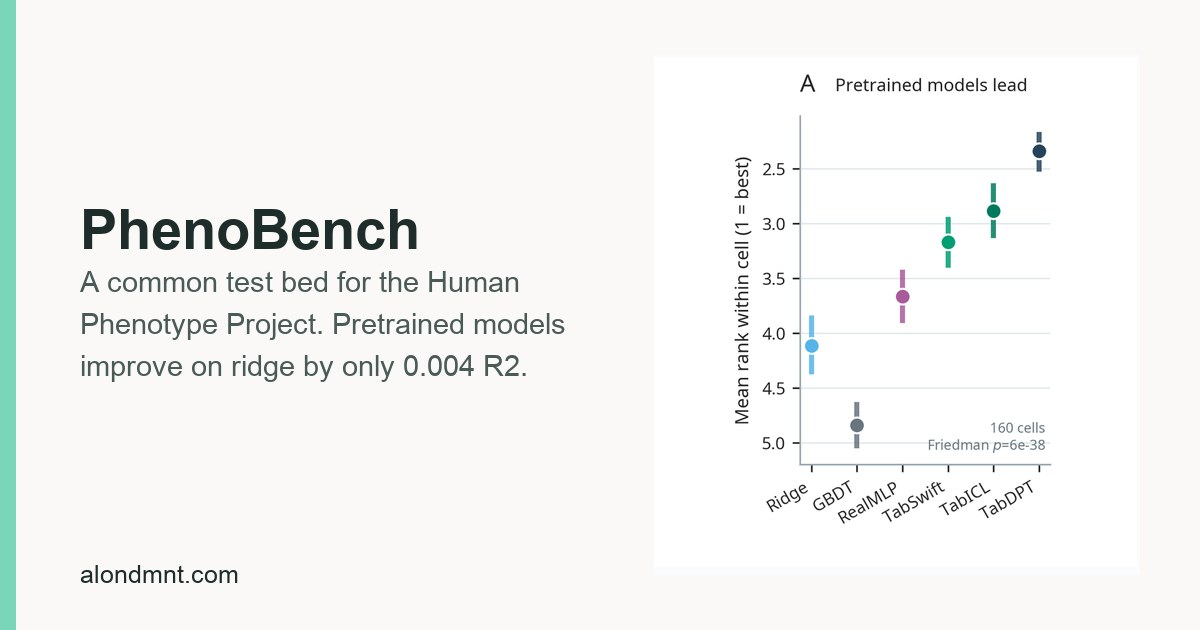
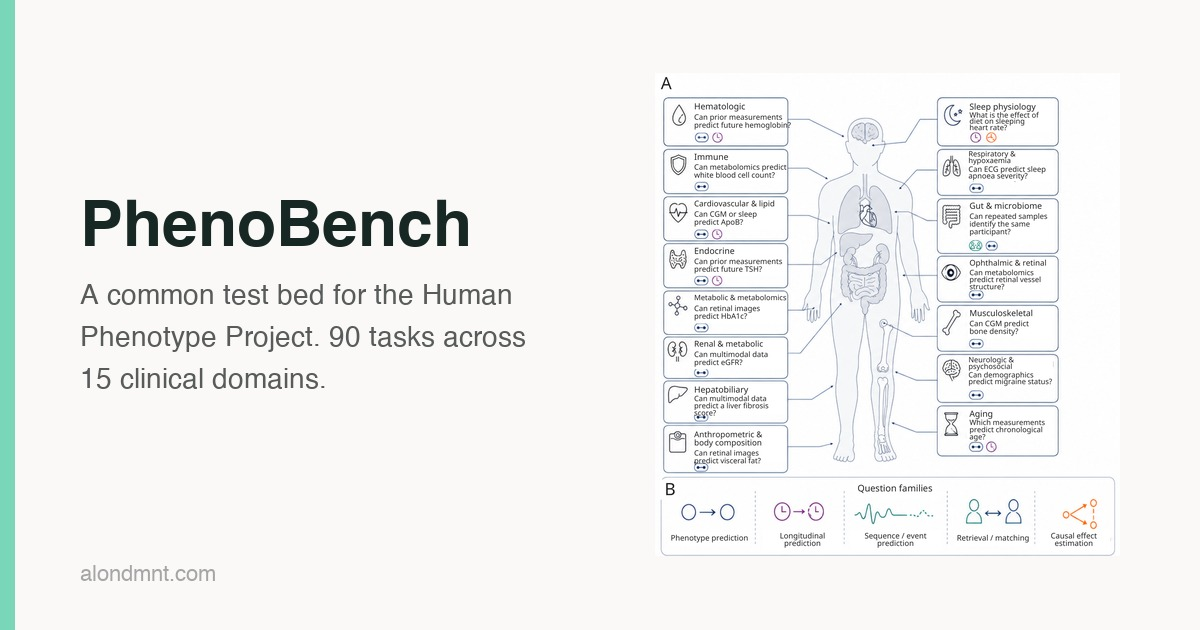
Rebuild: PhenoBench arXiv, domains figure, verified LLM results, new og card

diff --git a/phenobench/index.html b/phenobench/index.html
@@ -57,7 +57,7 @@ What it is PhenoBench turns the Human Phenotype Project into a common test bed f
 	<meta itemprop="name" content="PhenoBench">
 	<meta itemprop="description" content="A lot of analyses have been run on the Human Phenotype Project, and very few of them can be set beside one another. Each picks its own population, its own training and test participants, and its own baseline, so a result that looks stronger than another may only be answering an easier question. The cohort kept producing evidence that did not accumulate.
 What it is PhenoBench turns the Human Phenotype Project into a common test bed for any model, from classical baselines to large language models. It came out of my team’s evaluation workstream, and it is public so that other groups can put their own models through it. Gal Sapir led the project and first-authored the paper; I set its direction and worked hands-on inside it.">
-	<meta itemprop="wordCount" content="730">
+	<meta itemprop="wordCount" content="834">
 	<meta itemprop="image" content="https://alondmnt.com/og/phenobench.jpg">
 
 
@@ -79,8 +79,15 @@ What it is PhenoBench turns the Human Phenotype Project into a common test bed f
 <h4 id="what-it-is">What it is</h4>
 <p>PhenoBench turns the Human Phenotype Project into a common test bed for any model, from classical baselines to large language models. It came out of my team&rsquo;s evaluation workstream, and it is public so that other groups can put their own models through it. <a href="https://galsapir.com">Gal Sapir</a> led the project and first-authored the paper; I set its direction and worked hands-on inside it.</p>
 <p>90 tasks across 15 clinical domains and 26 input modalities, over horizons from seconds to six years. Each question fixes its target, the eligible population, the timing, and the information a model may use, and its evaluation contract fixes the metric, the baseline, and how far the result may be read. We split participants into training, validation and test sets once, for the whole cohort rather than per study, so no analysis can pick a split that suits it. A new model can then be evaluated without redefining the question, so results from different groups and different years can be read against each other.</p>
+<figure><img src="/images/phenobench-domains.jpg"
+			alt="One example question from each of the 15 clinical domains, and the five families the tasks fall into." width="70%"><figcaption>
+			<p>One example question from each of the 15 clinical domains, and the five families the tasks fall into.</p>
+		</figcaption>
+</figure>
+
 <p>It also informs how we train and evaluate models internally, including the multimodal foundation models running alongside it. The plan is for every model we build to be measured on it, so that an improvement is a gain against a declared baseline rather than against whatever the previous project happened to use.</p>
 <h4 id="what-it-showed">What it showed</h4>
+<p>What a measurement is worth turns out to depend on the question and on how the measurement is represented. Against matched baselines, held-out performance came out positive for some pairings, near zero for others, and negative for others again.</p>
 <p>We ran three pretrained tabular foundation models against ridge regression, gradient-boosted trees and a tuned neural baseline, over 160 matched comparisons spanning 52 tasks.</p>
 <p>The pretrained models ranked highest overall. In 121 of 160 cells they came out ahead of the average of ridge and the neural baseline, and their improvement over ridge had a median of only 0.004 R2, with a 95% confidence interval of 0.002 to 0.006.</p>
 <figure><img src="/images/phenobench-tabular.jpg"
@@ -90,6 +97,7 @@ What it is PhenoBench turns the Human Phenotype Project into a common test bed f
 </figure>
 
 <p>Frozen zero-shot Chronos-2 embeddings underperformed features engineered from the same signal, in 25 of 31 glucose comparisons and 30 of 32 sleep comparisons. The caveat travels with that result: both routes were read by the same linear ridge head, so it mixes representation quality with the sample efficiency of fitting ridge to embeddings of 770 to 3,076 dimensions. It does not test whether a tabular foundation model could use those embeddings differently.</p>
+<p>The 14 language models we ran had no cohort-specific fitting. They made informative predictions on some tasks, and on phenotype recovery they beat a ridge probe fitted on the same fields in 9 of 304 model-task cells. Cost did not determine performance.</p>
 <h4 id="what-the-contracts-catch">What the contracts catch</h4>
 <p>Every language model we tested predicted retinal artery width on a micrometre-like scale. The target is in AutoMorph pixels, and the answers stayed off-scale even after the Task Card&rsquo;s reference values were supplied, under both versions of the card.</p>
 <p>It shows up because each question states what is being predicted, in which units, and against which baseline.</p>
@@ -97,11 +105,11 @@ What it is PhenoBench turns the Human Phenotype Project into a common test bed f
 <p>A matched comparison assumes every model was held out from the same participants, and not every model is. Some predate that shared split. Some were trained by collaborators who used their own.</p>
 <p>The evaluation strategy still holds in those cases: the same question, the same metric, the same baseline. What changes is how far the result can be read, from held-out evidence to a description of what a measurement route can do, and the paper reports them that way.</p>
 <h4 id="where-it-goes-next">Where it goes next</h4>
-<p>So far the language-model work reuses tasks written for fitted models, under a single prompt and evidence contract: 14 models across 40 of the 90. The next step is tasks and evaluation strategies designed for language models rather than adapted to them.</p>
+<p>So far the language-model work reuses tasks written for fitted models, under a single prompt and evidence contract, and covers 40 of the 90 tasks. The next step is tasks and evaluation strategies designed for language models rather than adapted to them.</p>
 <p>The <a href="/health-agent">metabolic health agent</a> predates PhenoBench. That project built its own evaluation harness, because there was no shared place to define what an agent should be measured on. Those questions would be PhenoBench tasks now.</p>
 <p>Agentic auto-research loops are the further version of that. An agent that proposes and runs its own analysis needs somewhere to be checked against a fixed question, held-out data and a declared comparator, which is what an evaluation contract already is.</p>
 <h4 id="read-it">Read it</h4>
-<p>The <a href="https://galsapir.github.io/phenobench-benchmark/site/generated/">public benchmark</a> has the task catalog, the Task Cards, per-track results and a submission path.</p>
+<p>The <a href="https://arxiv.org/abs/2609.06080">preprint</a> is on arXiv. The <a href="https://galsapir.github.io/phenobench-benchmark/site/generated/">public benchmark</a> has the task catalog, the Task Cards, per-track results and a submission path.</p>
 
       </section>
     </article>

diff --git a/index.html b/index.html
@@ -321,9 +321,9 @@
 medRxiv</p>
 </li>
 <li>
-<p>PhenoBench: mapping what a deeply phenotyped human cohort can tell us (2026)<br>
+<p><a href="https://arxiv.org/abs/2609.06080">PhenoBench: mapping what a deeply phenotyped human cohort can tell us (2026)</a><br>
 G Sapir, <strong>A Diament</strong>, &hellip;, E Segal, H Rossman<br>
-Preprint</p>
+arXiv</p>
 </li>
 <li>
 <p><a href="https://www.medrxiv.org/content/10.64898/2026.07.01.26356992v1">A foundation model of wearable pulse oximetry reveals physiological signatures of health and cardiometabolic risk (2026)</a><br>
